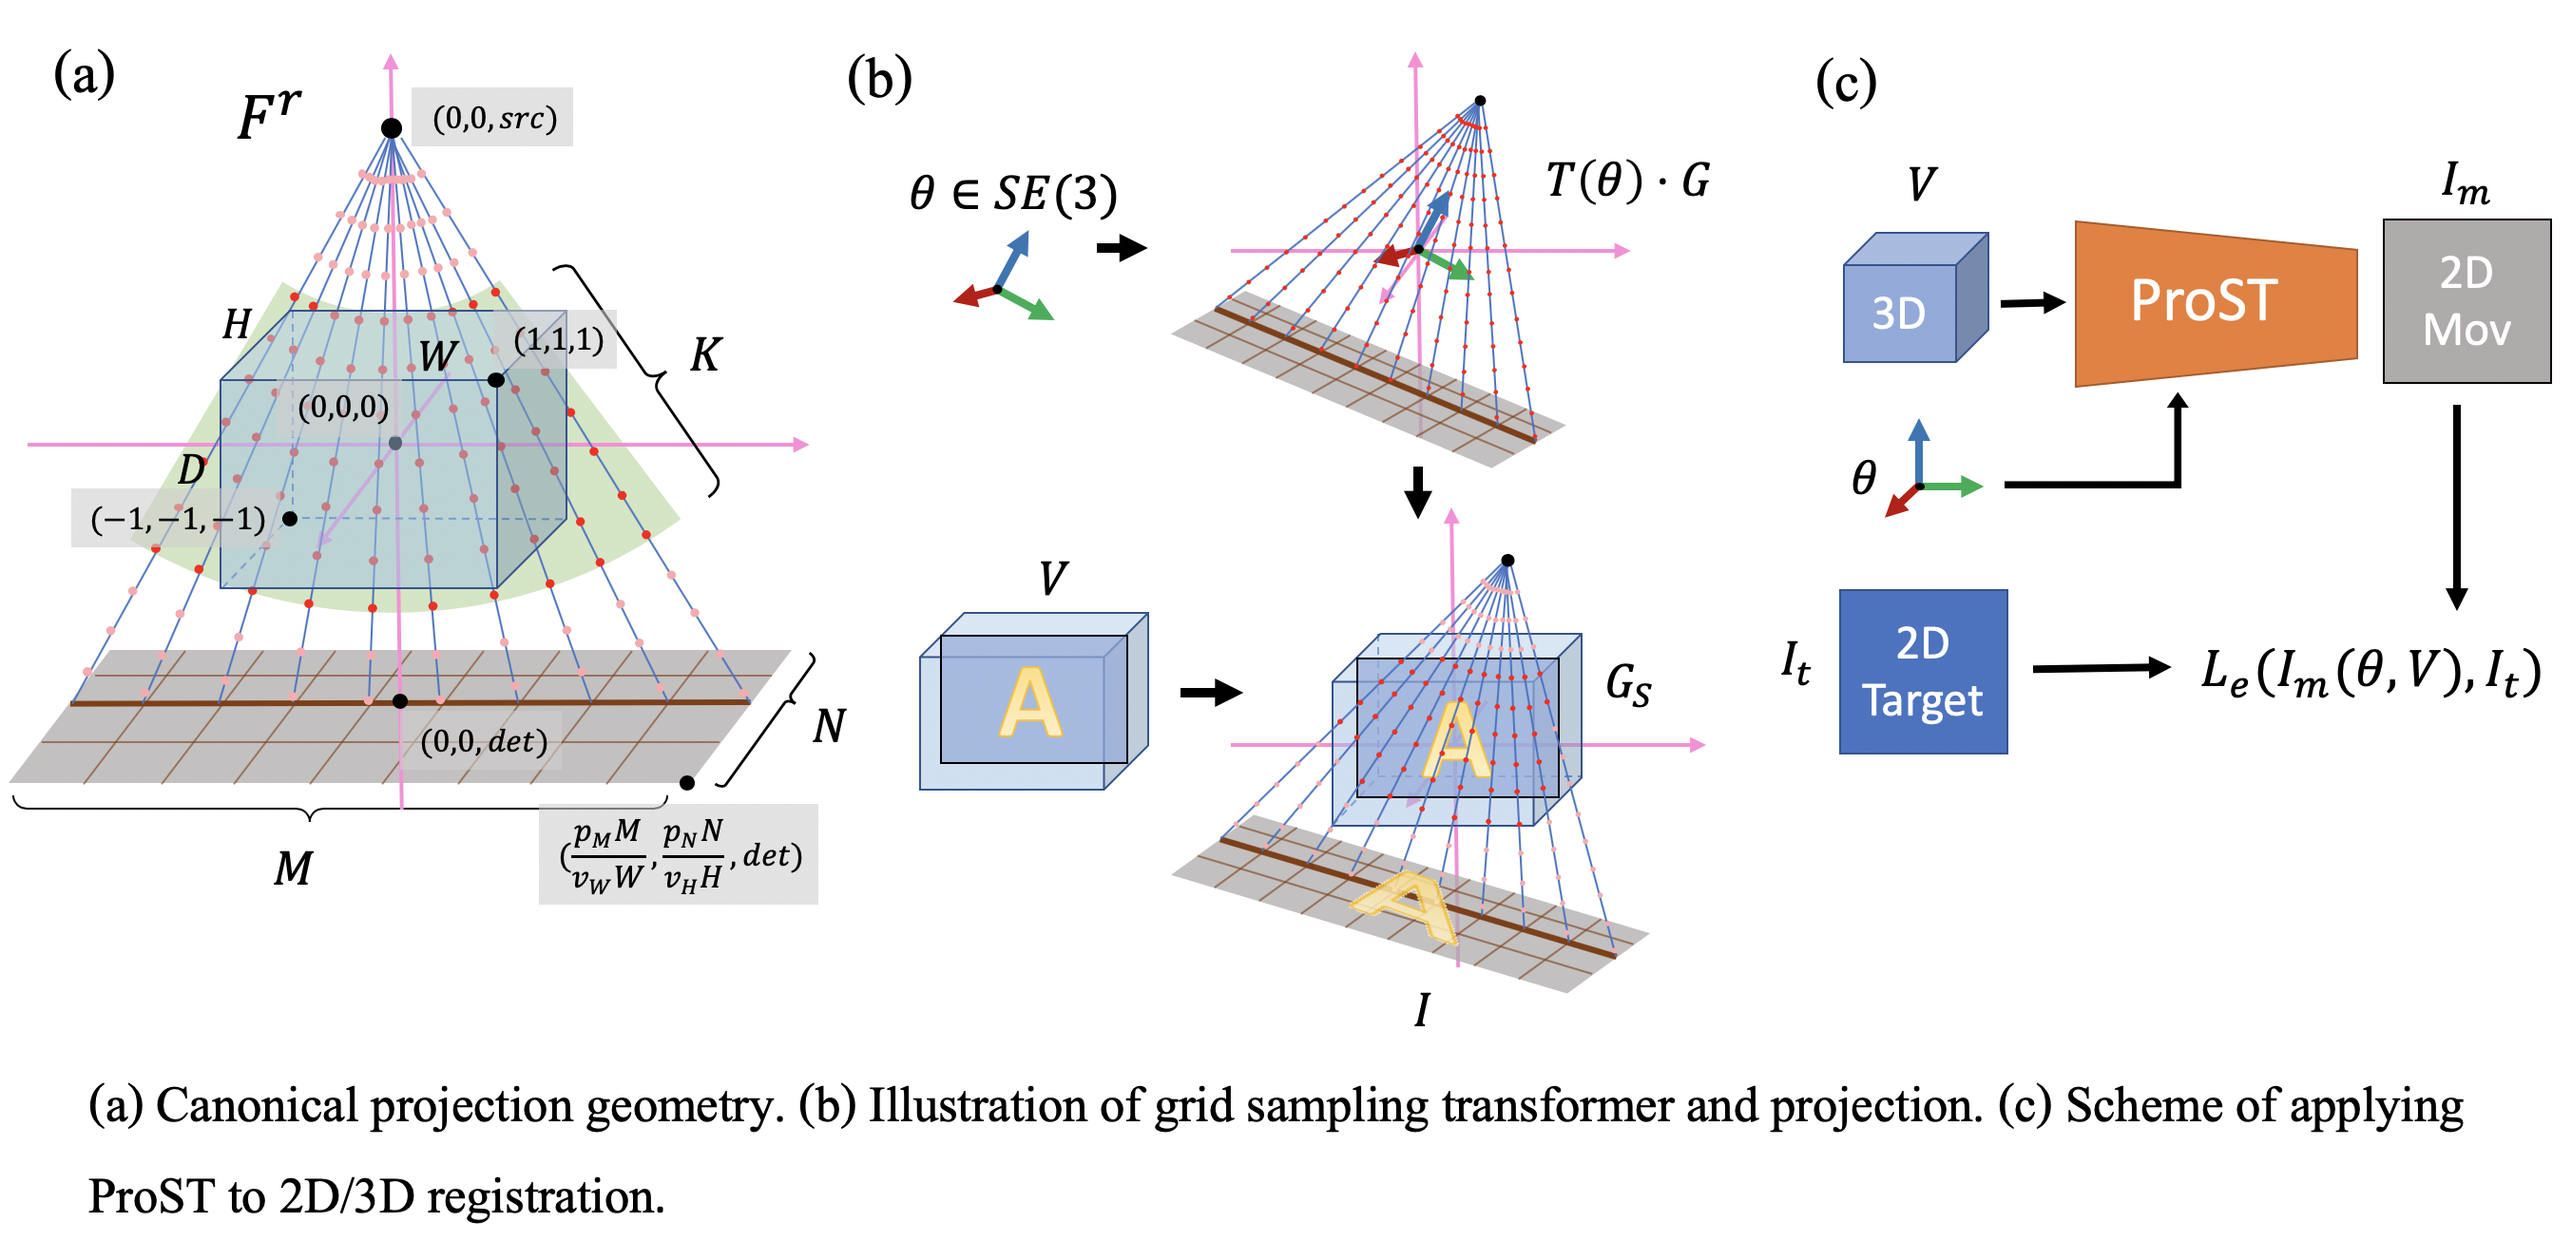
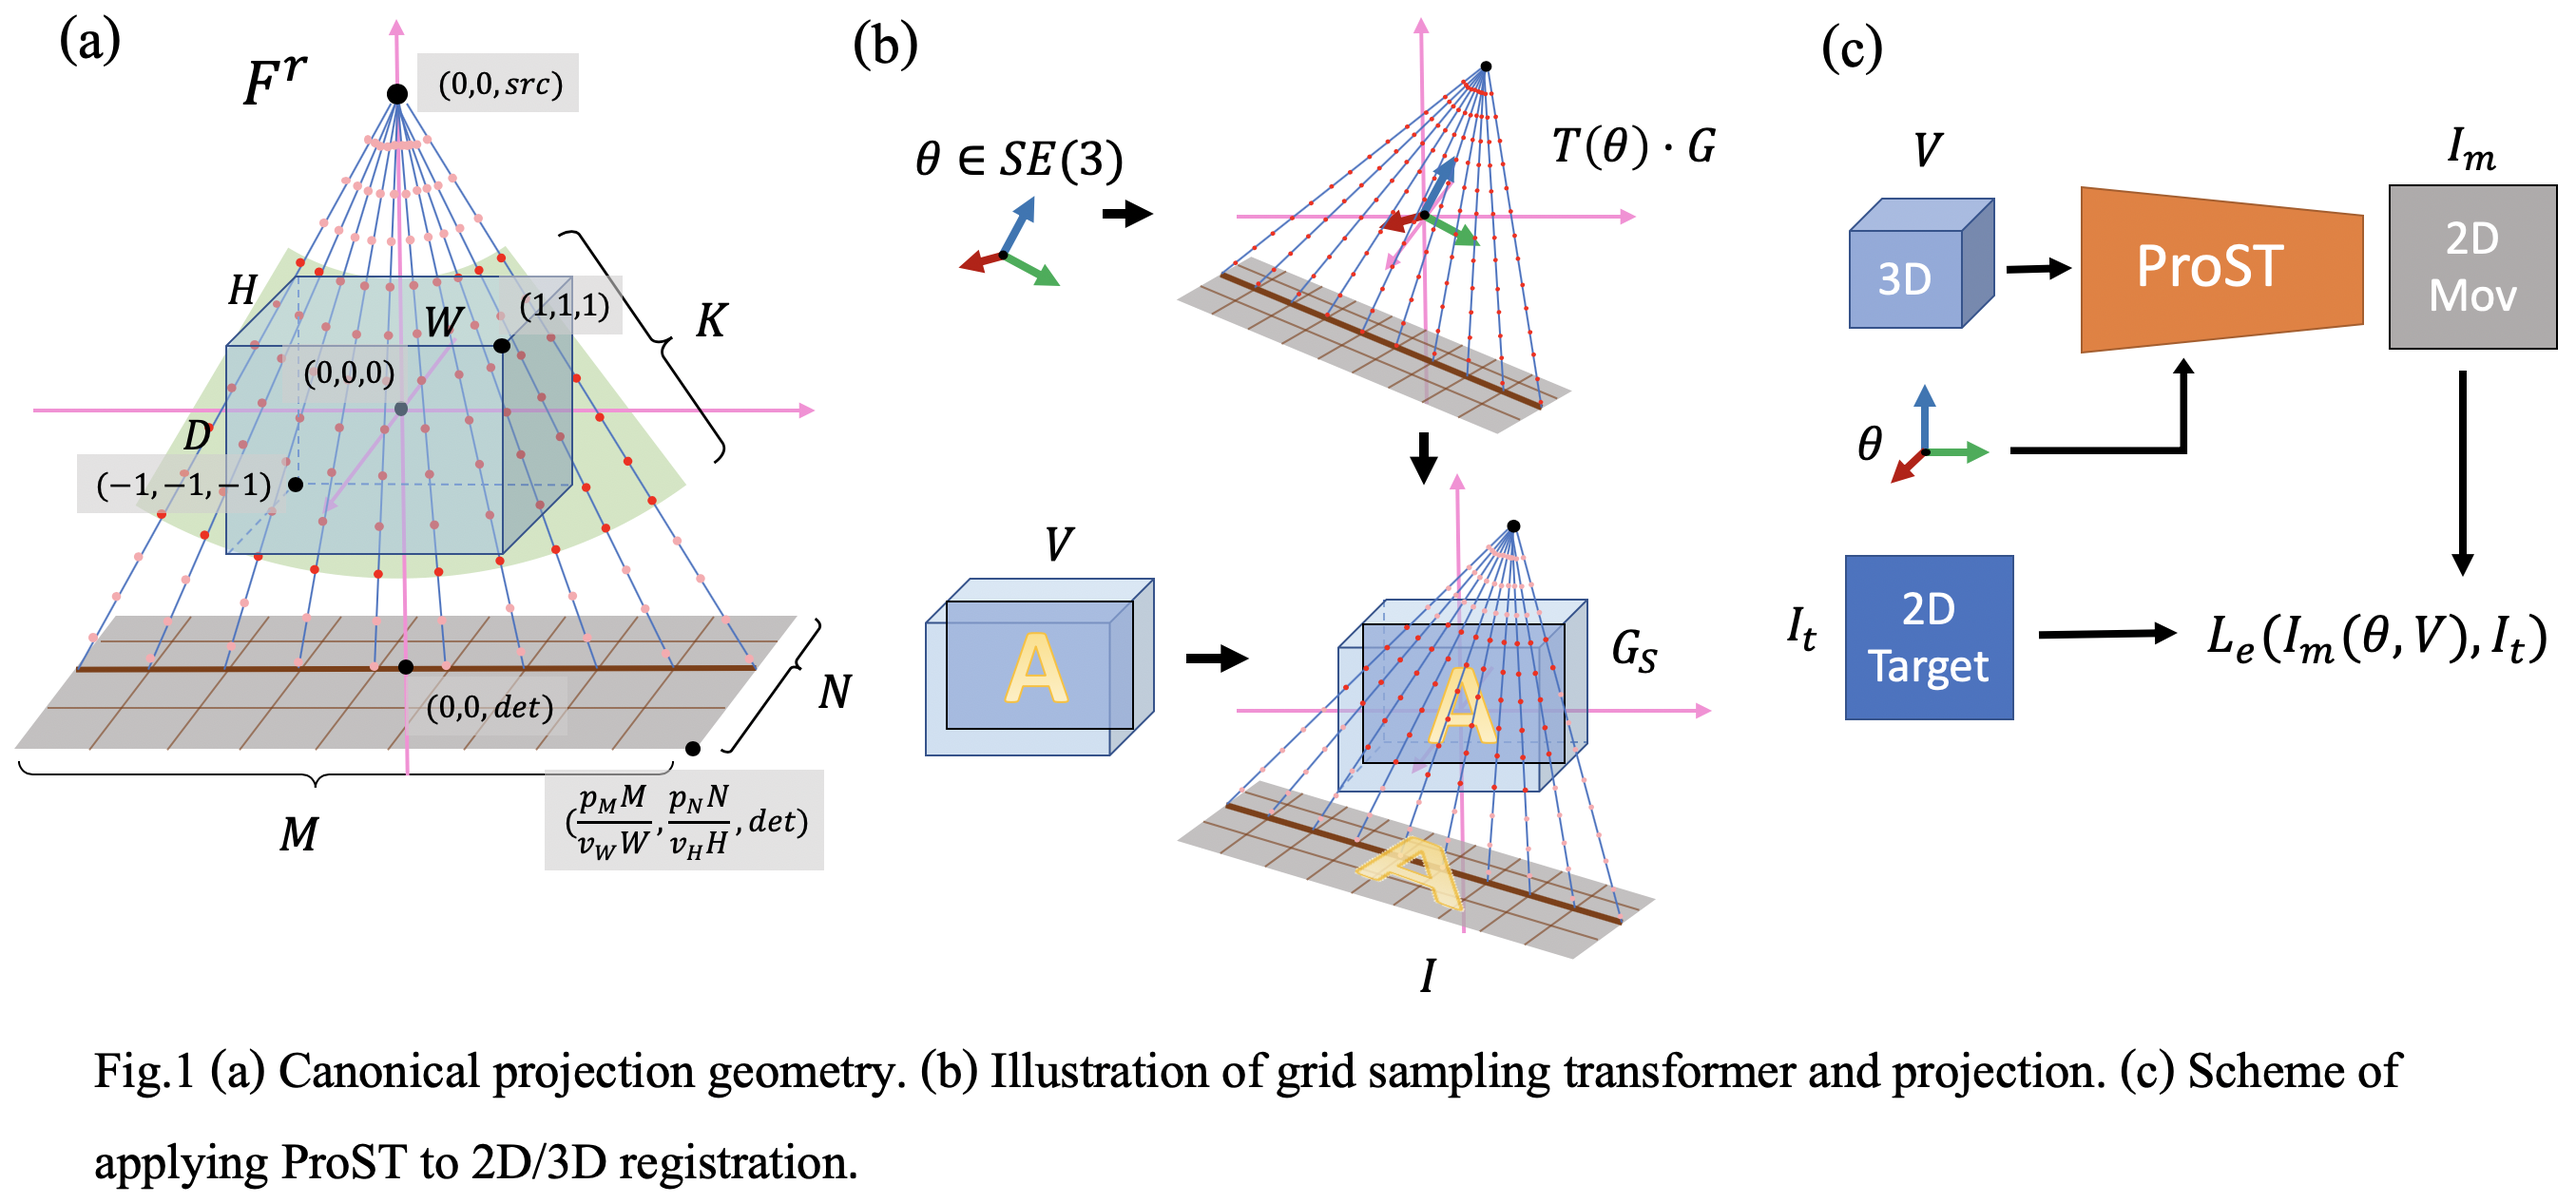
update readme and figs

diff --git a/ProSTGrid/ProSTGrid_cuda.cpp b/ProSTGrid/ProSTGrid_cuda.cpp
@@ -1,0 +1,37 @@
+#include <ATen/ATen.h>
+#include <ATen/NativeFunctions.h>
+#include <torch/extension.h>
+
+#include <c10/util/ArrayRef.h>
+#include <vector>
+#include <math.h> 
+
+// NOTE: AT_ASSERT has become AT_CHECK on master after 0.4.
+#define CHECK_CUDA(x) AT_ASSERTM(x.type().is_cuda(), #x " must be a CUDA tensor")
+#define CHECK_CONTIGUOUS(x) AT_ASSERTM(x.is_contiguous(), #x " must be contiguous")
+#define CHECK_INPUT(x) CHECK_CUDA(x); CHECK_CONTIGUOUS(x)
+
+torch::Tensor ProST_grid_generator_5D_cuda_forward(
+  const torch::Tensor &theta,
+  int64_t N,
+  int64_t C,
+  int64_t H,
+  int64_t W,
+  float dist_min,
+  float dist_max,
+  float src,
+  float det,
+  float pix_spacing,
+  float step_size,
+  bool align_corners
+  ); 
+
+torch::Tensor ProST_grid_generator_forward(const torch::Tensor &theta, torch::IntArrayRef size, float dist_min, float dist_max, float src, float det, float pix_spacing, float step_size, bool align_corners) {
+    return ProST_grid_generator_5D_cuda_forward(theta, size[0], size[1], size[2], size[3], dist_min, dist_max, src, det, pix_spacing, step_size, align_corners);
+}
+  
+PYBIND11_MODULE(TORCH_EXTENSION_NAME, m) {
+	m.def("forward", &ProST_grid_generator_forward, "ProSTGrid Generator (CUDA)");
+}  
+
+

diff --git a/ProSTGrid/setup.py b/ProSTGrid/setup.py
@@ -1,0 +1,14 @@
+from setuptools import setup
+from torch.utils.cpp_extension import BuildExtension, CUDAExtension
+
+setup(
+    name='ProSTGrid_cuda',
+    ext_modules=[
+        CUDAExtension('ProSTGrid_cuda', [
+            'ProSTGrid_cuda.cpp',
+            'ProSTGrid_cuda_kernel.cu',
+        ]),
+    ],
+    cmdclass={
+        'build_ext': BuildExtension
+    })

diff --git a/README.md b/README.md
@@ -25,4 +25,4 @@ We propose a novel Projective Spatial Transformer module that generalizes spatia
 pip install requirements.txt
 ```
 ### Install ProST grid generator
-We implemented our ProST grid generator function using [PyTorch C++ and CUDA extension](https://pytorch.org/tutorials/advanced/cpp_extension.html). We take the camera intrinsic parameters (usually defined by the intrinsic matrix ![K\in \mathbf{R}^{3\times 3}](https://render.githubusercontent.com/render/math?math=K%5Cin%20%5Cmathbf%7BR%7D%5E%7B3%5Ctimes%203%7D) as input,
+We implemented our ProST grid generator function using [PyTorch C++ and CUDA extension](https://pytorch.org/tutorials/advanced/cpp_extension.html). The implementation is inspired by [PyTorch Spatial Transformer Network C++ source code](https://github.com/pytorch/pytorch/blob/master/aten/src/ATen/native/AffineGridGenerator.cpp), but we created our own geometries and kernel functions, which is illustrated by Fig.1(a). We take the camera intrinsic parameters (usually defined by the intrinsic matrix ![K\in \mathbf{R}^{3\times 3}](https://render.githubusercontent.com/render/math?math=K%5Cin%20%5Cmathbf%7BR%7D%5E%7B3%5Ctimes%203%7D)) as input, and generate a grid variable with the shape ![B\times (M\cdot N\cdot K)\times 4](https://render.githubusercontent.com/render/math?math=B%5Ctimes%20(M%5Ccdot%20N%5Ccdot%20K)%5Ctimes%204), where B is batch size. 
